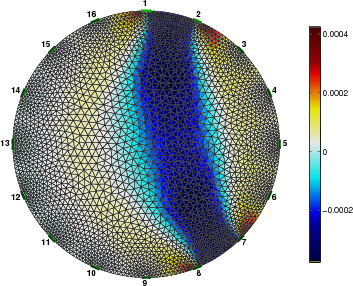
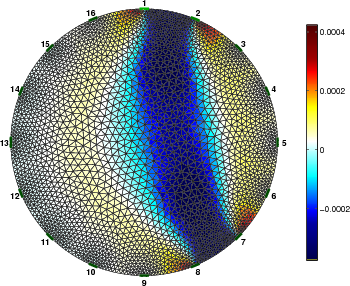
new ellip models
git-svn-id: svn+ssh://svn.code.sf.net/p/eidors3d/code/trunk@2216 82006732-fb7e-4a22-9f28-86a212cce563

diff --git a/htdocs/tutorial/netgen.html b/htdocs/tutorial/netgen.html
@@ -1,38 +1,15 @@
 <h3>FEM Modelling with Netgen</h3>
 <ul>
     <li><h3><a href="./netgen/netgen_cyl_models.shtml"
-           >EIDORS model with netgen</a>
+           >EIDORS cylindrical models with netgen</a>
+        </h3>
+
+    <li><h3><a href="./netgen/netgen_ellip_models.shtml"
+           >EIDORS elliptical models with netgen</a>
         </h3>
 
     <li><h3><a href="./netgen/netgen_simulations.shtml"
            >EIDORS fwd simulations with netgen</a>
-        </h3>
-</ul>
-
-<h3>FEM Modelling with Netgen (Older Tutorials)</h3>
-<ul>
-    <li><h3><a href="./netgen/tutorial040.shtml"
-           >Using Netgen to build EIDORS models</a>
-        </h3>
-
-    <li><h3><a href="./netgen/build_single_plane.shtml"
-           >Build Single Plane Models</a>
-        </h3>
-
-    <li><h3><a href="./netgen/build_double_plane.shtml"
-           >Build Double Plane Models</a>
-        </h3>
-
-    <li><h3><a href="./netgen/moving_ball_16x1.shtml"
-           >Simulate moving objects in 16x1 Netgen model</a>
-        </h3>
-
-    <li><h3><a href="./netgen/moving_ball_16x2.shtml"
-           >Simulate moving objects in 16x2 Netgen model</a>
-        </h3>
-
-    <li><h3><a href="./netgen/tutorial050.shtml"
-           >More sophisticated uses of Netgen</a>
         </h3>
 
     <li><h3><a href="./netgen/meshsize_parameter.shtml"

diff --git a/htdocs/tutorial/old-tutorials.html b/htdocs/tutorial/old-tutorials.html
@@ -1,0 +1,38 @@
+<h3>FEM Modelling with Netgen (Older Tutorials)</h3>
+<ul>
+    <li><h3><a href="./netgen/tutorial040.shtml"
+           >Using Netgen to build EIDORS models</a>
+        </h3>
+
+    <li><h3><a href="./netgen/build_single_plane.shtml"
+           >Build Single Plane Models</a>
+        </h3>
+
+    <li><h3><a href="./netgen/build_double_plane.shtml"
+           >Build Double Plane Models</a>
+        </h3>
+
+    <li><h3><a href="./netgen/moving_ball_16x1.shtml"
+           >Simulate moving objects in 16x1 Netgen model</a>
+        </h3>
+
+    <li><h3><a href="./netgen/moving_ball_16x2.shtml"
+           >Simulate moving objects in 16x2 Netgen model</a>
+        </h3>
+
+    <li><h3><a href="./netgen/tutorial050.shtml"
+           >More sophisticated uses of Netgen</a>
+        </h3>
+
+    <li><h3><a href="./netgen/meshsize_parameter.shtml"
+           >Explore effect of meshsize with netgen</a>
+        </h3>
+</ul>
+
+<h3>Older (V2) Tutorials</h3>
+<ul>
+    <li><h3> 
+   <a href="./version2/eidors3d_tutorial.shtml"
+      >Tutorial for EIDORS Version 2 (EIDORS3D)</a>
+   </h3>
+</ul>

diff --git a/htdocs/tutorial/GREIT-old.html b/htdocs/tutorial/GREIT-old.html
@@ -1,4 +1,4 @@
-<h3>GREIT software</h3>
+<h3>Older GREIT tutorials</h3>
 <ul>
    <h4>GREIT algorithm framework</h4>
    <ul>

diff --git a/htdocs/tutorial/netgen/netgen_ellip_models.m b/htdocs/tutorial/netgen/netgen_ellip_models.m
@@ -1,0 +1,63 @@
+function netgen_ellip_models( numbers )
+
+if nargin==0; numbers = 1:9; end
+for i=numbers(:)';
+   do_sim(i);
+end
+
+function do_sim( number )
+switch number
+% Simple 3D ellipse. Major, minor axes = [1.5, 0.8]. No electrodes
+case 01;
+    fmdl= ng_mk_ellip_models([1,1.5,0.8],[0],[]); 
+show_fem(fmdl);
+
+% Simple 2D cylinder. Axes = [1.5,0.8]. Refined to 0.1
+case 02;
+    fmdl= ng_mk_ellip_models([0,1.5,0.8,0.1],[],[]); 
+show_fem(fmdl);
+
+% 3D cylinder. Axes = [1.5,0.8]. 2 planes of 8 elecs with radius 0.1
+case 03;
+    fmdl= ng_mk_ellip_models([1,1.2,0.8],[8,0.3,0.7],[0.1]); 
+show_fem(fmdl);
+
+% 3D cylinder. Axes= [1.3,1] = 1. 7 rect elecs with no refinement
+case 04;
+    fmdl= ng_mk_ellip_models([3,1.3],[7,1],[0.2,0.3]); 
+show_fem(fmdl);
+
+% 2D cylinder. Axes = [1.2,0.8]. 11 rect elecs with refinement. Rotated 45 degrees
+case 05;
+    fmdl= ng_mk_ellip_models([0,1.2,0.8],[11],[0.2,0,0.05]); 
+th = 45* [2*pi/360];
+fmdl.nodes = fmdl.nodes*[cos(th),sin(th);-sin(th),cos(th)];
+show_fem(fmdl);
+
+
+% 2D cylinder. elecs at 0, 90 and 120 degrees
+case 06;
+    fmdl= ng_mk_ellip_models([0,1.2,0.8],[0;90;120],[0.2,0,0.03]); 
+show_fem(fmdl);
+
+
+% 3D cylinder. Various elecs at 0, 30, 60, 90 in planes
+case 07;
+    el_pos = [0,0.5;30,1;60,1.5;90,2.0];
+    el_sz  = [0.2,0,0.1;0.1,0,0.05;0.2,0.2,0.02;0.2,0.4,0.5];
+    fmdl= ng_mk_ellip_models([3,0.8,1.2],el_pos,el_sz); 
+show_fem(fmdl);
+
+% Simple 3D cylinder with a ball
+case 08;
+    extra={'ball','solid ball = sphere(0.5,0.5,1;0.4);'};
+    [fmdl,mat_idx]= ng_mk_ellip_models([2,1.2,0.8],[8,1],[0.1],extra); 
+    img= mk_image(fmdl, 1);
+    img.elem_data(mat_idx{2}) = 2;
+show_fem(img);
+
+end
+
+
+print_convert( ...
+   sprintf('netgen_ellip_models%02d.png',number), '-density 75');

diff --git a/htdocs/tutorial/EIDORS_basics/rpi_data06.m b/htdocs/tutorial/EIDORS_basics/rpi_data06.m
@@ -3,13 +3,13 @@
 imdl = mk_common_model('b2c2',32);
 imdl.fwd_model = fmdl;
 imdl.reconst_type = 'absolute';
-imdl.hyperparameter.value = 808;
+imdl.hyperparameter.value = .0000808;
 imdl.solve = @GN_abs_solve;
 
 for iter = [1,2,3];
    imdl.parameters.max_iteration = iter;
    img = inv_solve(imdl , vi);
-   img.calc_colours.cb_shrink_move = [0.5,0.8,0];
+   img.calc_colours.cb_shrink_move = [0.5,0.8,0.05];
    show_fem(img,[1,1]); axis off; axis image
 
    print_convert(sprintf('rpi_data06%c.png', 'a'-1+iter),'-density 60');

diff --git a/htdocs/tutorial/EIDORS_basics/rpi_data02.m b/htdocs/tutorial/EIDORS_basics/rpi_data02.m
@@ -10,12 +10,9 @@ imdl.fwd_model = rmfield(imdl.fwd_model,'meas_select');
 imdl.fwd_model.stimulation = stim;
 imdl.hyperparameter.value = 1;
 
-
-load Rensselaer_EIT_Phantom;
-vh =  real(ACT2006_homog); vi = real(ACT2000_phant);
-
+% Reconstruct image
 img = inv_solve(imdl, vh, vi);
-img.calc_colours.cb_shrink_move = [0.5,0.8,0];
+img.calc_colours.cb_shrink_move = [0.5,0.8,0.05];
 show_fem(img,[1,1]); axis off; axis image
 
 print_convert('rpi_data02a.png','-density 60');

diff --git a/htdocs/tutorial/EIDORS_basics/rpi_data02a.m b/htdocs/tutorial/EIDORS_basics/rpi_data02a.m
@@ -1,0 +1,15 @@
+% load RPI tank data $Id$
+
+load Rensselaer_EIT_Phantom;
+vh = real(ACT2006_homog);
+vi = real(ACT2000_phant);
+
+% Preprocessing data. We ensure that each voltage sequence sums to zero
+  for i=0:0 %30
+    idx = 32*i + (1:32);
+    vh(idx) = vh(idx) - mean(vh(idx));
+    vi(idx) = vi(idx) - mean(vi(idx));
+  end
+
+ load ~/docs/carleton/2010/projects/lionheart-EIT-book/pre_proc_data.mat
+

diff --git a/htdocs/tutorial/EIDORS_basics/rpi_data04.m b/htdocs/tutorial/EIDORS_basics/rpi_data04.m
@@ -13,7 +13,7 @@ imdl.jacobian_bkgnd.value = pf(1)*imdl.jacobian_bkgnd.value;
 imdl.hyperparameter.value = imdl.hyperparameter.value/pf(1)^2;
 
 img = inv_solve(imdl, vh, vi);
-img.calc_colours.cb_shrink_move = [0.5,0.8,0];
+img.calc_colours.cb_shrink_move = [0.5,0.8,0.05];
 show_fem(img,[1,1]); axis off; axis image
 
 print_convert('rpi_data04a.png','-density 60');

diff --git a/htdocs/tutorial/EIDORS_basics/rpi_data05.m b/htdocs/tutorial/EIDORS_basics/rpi_data05.m
@@ -8,7 +8,7 @@ vs = fwd_solve(imgs); vs = vs.meas;
 imdl.hyperparameter.value = 18;
 img = inv_solve(imdl, vs, vi);
 img.elem_data = pf(1) + img.elem_data*0.5;
-img.calc_colours.cb_shrink_move = [0.5,0.8,0];
+img.calc_colours.cb_shrink_move = [0.5,0.8,0.05];
 show_fem(img,[1,1]); axis off; axis image
 
 print_convert('rpi_data05a.png','-density 60');

diff --git a/htdocs/tutorial/EIDORS_basics/rpi_data03.m b/htdocs/tutorial/EIDORS_basics/rpi_data03.m
@@ -4,7 +4,7 @@
 imdl.fwd_model = fmdl; 
 
 img = inv_solve(imdl , vh, vi);
-img.calc_colours.cb_shrink_move = [0.5,0.8,0];
+img.calc_colours.cb_shrink_move = [0.5,0.8,0.05];
 show_fem(img,[1,1]); axis off; axis image
 
 print_convert('rpi_data03a.png','-density 60');
